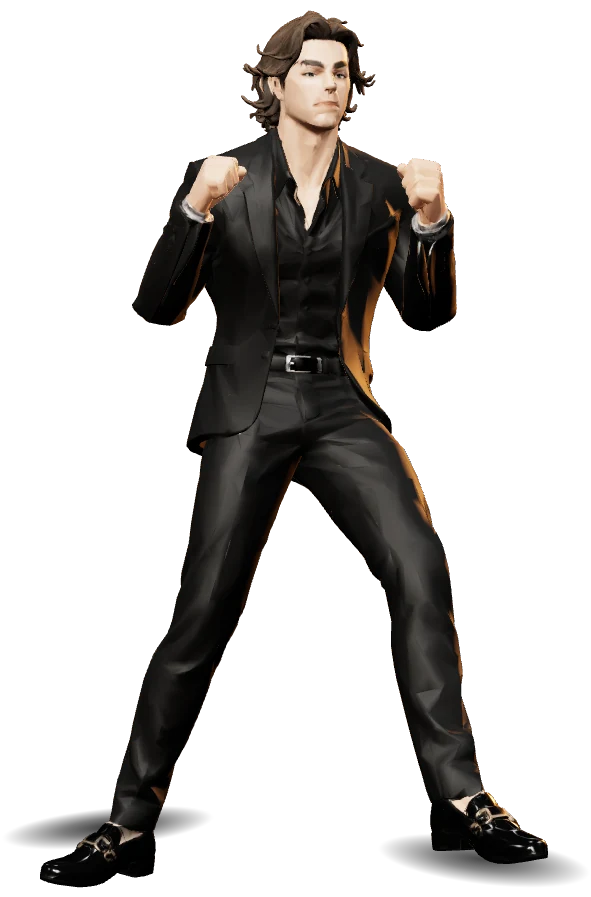
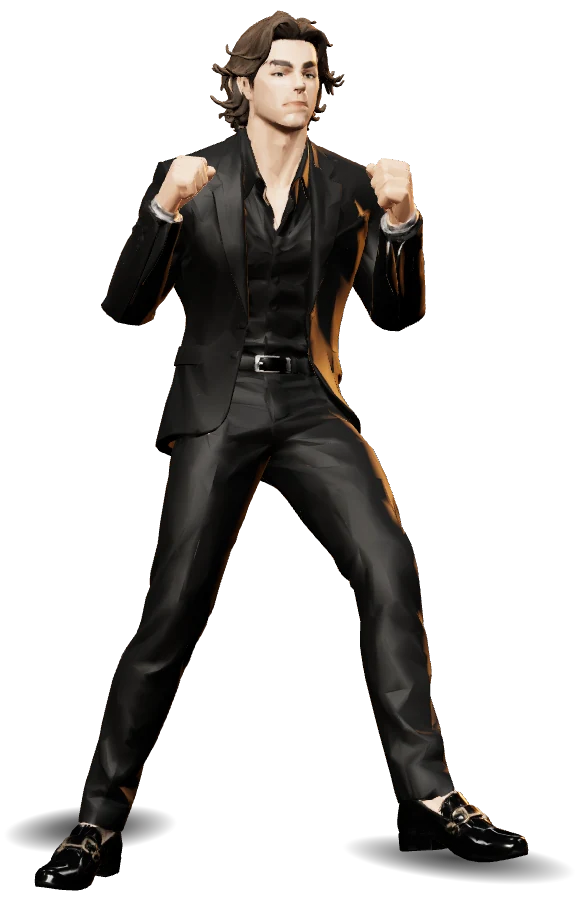
Figure Chrollo e figure normali rifatte con i piedi da guardia
Claude-Session: https://claude.ai/code/session_01Ca6fdwAAkC6S1YGdMpQrpP

Changed region(s): [[0.0296, 0.0, 0.9461, 0.9989]]

diff --git a/picchiaduro-sito/sw.js b/picchiaduro-sito/sw.js
@@ -1,7 +1,7 @@
 // Service worker (generato da build3d.py): rende il gioco giocabile anche senza internet.
 // All'installazione salva i file principali; il resto (modelli dei lottatori e oggetti delle mosse finali) lo salva in sottofondo quando la pagina lo chiede.
 // Ogni nuova versione del gioco ha un'impronta diversa: la cache vecchia viene cancellata. Solo la partita online ha bisogno di internet.
-const VER='cafuddra-8ae939a337',CORE=["./", "index.html", "manifest.webmanifest", "arene/agip.jpg", "arene/gemmellaro.jpg", "arene/monumento.jpg", "arene/palacannizzaro.jpg", "arene/piazza.jpg", "arene/retro.jpg", "arene/rotonda.jpg", "arene/stesicoro.jpg", "font/knewave-LICENSE.txt", "font/knewave.woff2", "font/metal-mania.woff2", "font/titoli.json", "img/accoppalo.webp", "img/cafuddra.webp", "img/icona192.png", "img/icona512.png", "js/accoppalo.js", "js/animazione.js", "js/audio.js", "js/gioco.js", "js/lottatori.js", "js/mani.js", "js/menu.js", "js/offline.js", "js/peerjs.min.js", "js/regia.js", "js/selezione.js", "js/three-gltf.js", "js/titoli.js", "js/tocco.js", "lottatori/lottatori.json", "lottatori/alchimista/figura.webp", "lottatori/alchimista/ritratto.jpg", "lottatori/casual/figura.webp", "lottatori/casual/ritratto.jpg", "lottatori/chef/figura.webp", "lottatori/chef/ritratto.jpg", "lottatori/damiano/figura.webp", "lottatori/damiano/ritratto.jpg", "lottatori/disco/figura.webp", "lottatori/disco/ritratto.jpg", "lottatori/ember/figura.webp", "lottatori/ember/ritratto.jpg", "lottatori/giacca-meshy/figura.webp", "lottatori/giacca-meshy/ritratto.jpg", "lottatori/guardia/figura.webp", "lottatori/guardia/ritratto.jpg", "lottatori/lillo/figura.webp", "lottatori/lillo/ritratto.jpg", "lottatori/mario/figura.webp", "lottatori/mario/ritratto.jpg", "lottatori/massimo/figura.webp", "lottatori/massimo/ritratto.jpg", "lottatori/mastro/figura.webp", "lottatori/mastro/ritratto.jpg", "lottatori/mattia/figura.webp", "lottatori/mattia/ritratto.jpg", "lottatori/mattityahu/figura.webp", "lottatori/mattityahu/ritratto.jpg", "lottatori/medico/figura.webp", "lottatori/medico/ritratto.jpg", "lottatori/peppone/figura.webp", "lottatori/peppone/ritratto.jpg", "lottatori/perna/figura.webp", "lottatori/perna/ritratto.jpg", "lottatori/simba/figura.webp", "lottatori/simba/ritratto.jpg", "lottatori/simone/figura.webp", "lottatori/simone/ritratto.jpg", "lottatori/street/figura.webp", "lottatori/street/ritratto.jpg", "lottatori/tano/figura.webp", "lottatori/tano/ritratto.jpg", "mocap/clip.json", "suoni/ahi1.mp3", "suoni/ahi2.mp3", "suoni/ahi3.mp3", "suoni/ahi4.mp3", "suoni/ahi5.mp3", "suoni/aria1.mp3", "suoni/aria2.mp3", "suoni/aria3.mp3", "suoni/aria4.mp3", "suoni/ariona1.mp3", "suoni/ariona2.mp3", "suoni/boato.mp3", "suoni/botto.mp3", "suoni/calcio1.mp3", "suoni/calcio2.mp3", "suoni/calcio3.mp3", "suoni/campana.mp3", "suoni/cannone.mp3", "suoni/colpone.mp3", "suoni/colpone2.mp3", "suoni/coro.mp3", "suoni/crepitio.mp3", "suoni/esplo1.mp3", "suoni/esplo2.mp3", "suoni/fiammata.mp3", "suoni/forte1.mp3", "suoni/forte2.mp3", "suoni/forte3.mp3", "suoni/fuoco.mp3", "suoni/incudine.mp3", "suoni/lama.mp3", "suoni/lama2.mp3", "suoni/lamiera.mp3", "suoni/lattina.mp3", "suoni/max1.mp3", "suoni/metallo1.mp3", "suoni/metallo2.mp3", "suoni/morte1.mp3", "suoni/morte2.mp3", "suoni/ossa1.mp3", "suoni/ossa2.mp3", "suoni/parata1.mp3", "suoni/parata2.mp3", "suoni/passo1.mp3", "suoni/passo2.mp3", "suoni/portiera.mp3", "suoni/pugno1.mp3", "suoni/pugno2.mp3", "suoni/pugno3.mp3", "suoni/pugno4.mp3", "suoni/raschio.mp3", "suoni/risata.mp3", "suoni/rullante.mp3", "suoni/rutto.mp3", "suoni/sangue1.mp3", "suoni/sangue2.mp3", "suoni/scarica1.mp3", "suoni/scarica2.mp3", "suoni/schianto.mp3", "suoni/sforzo1.mp3", "suoni/sforzo2.mp3", "suoni/sorso.mp3", "suoni/sparo1.mp3", "suoni/sparo2.mp3", "suoni/stoffa1.mp3", "suoni/stoffa2.mp3", "suoni/telefono.mp3", "suoni/tonfo.mp3", "suoni/tuono.mp3", "suoni/ui_apri.mp3", "suoni/ui_muovi.mp3", "suoni/ui_no.mp3", "suoni/ui_ok.mp3", "suoni/urlo1.mp3", "suoni/urlo2.mp3", "suoni/urlolungo.mp3", "suoni/vetro1.mp3", "suoni/vetro2.mp3", "suoni/zap.mp3"],EXTRA=["lottatori/alchimista/modello.glb", "lottatori/casual/modello.glb", "lottatori/chef/modello.glb", "lottatori/damiano/modello.glb", "lottatori/disco/modello.glb", "lottatori/ember/modello.glb", "lottatori/giacca-meshy/costume-chrollo.glb", "lottatori/giacca-meshy/modello.glb", "lottatori/guardia/modello.glb", "lottatori/lillo/modello.glb", "lottatori/mario/modello.glb", "lottatori/massimo/modello.glb", "lottatori/mastro/modello.glb", "lottatori/mattia/modello.glb", "lottatori/mattityahu/modello.glb", "lottatori/medico/modello.glb", "lottatori/peppone/modello.glb", "lottatori/perna/modello.glb", "lottatori/simba/modello.glb", "lottatori/simone/modello.glb", "lottatori/street/modello.glb", "lottatori/tano/costume-chrollo.glb", "lottatori/tano/modello.glb", "oggetti/birra.js", "oggetti/bottiglia.js", "oggetti/camper.js", "oggetti/cuore.js", "oggetti/intestino.js", "oggetti/microfono.js", "oggetti/muscoli.js", "oggetti/palla.js", "oggetti/scheletro.js", "oggetti/siringa.js", "oggetti/spina.js", "oggetti/statua.js", "oggetti/telefono.js", "oggetti/volante.js", "oggetti/waifu.js"];
+const VER='cafuddra-3d568374ac',CORE=["./", "index.html", "manifest.webmanifest", "arene/agip.jpg", "arene/gemmellaro.jpg", "arene/monumento.jpg", "arene/palacannizzaro.jpg", "arene/piazza.jpg", "arene/retro.jpg", "arene/rotonda.jpg", "arene/stesicoro.jpg", "font/knewave-LICENSE.txt", "font/knewave.woff2", "font/metal-mania.woff2", "font/titoli.json", "img/accoppalo.webp", "img/cafuddra.webp", "img/icona192.png", "img/icona512.png", "js/accoppalo.js", "js/animazione.js", "js/audio.js", "js/gioco.js", "js/lottatori.js", "js/mani.js", "js/menu.js", "js/offline.js", "js/peerjs.min.js", "js/regia.js", "js/selezione.js", "js/three-gltf.js", "js/titoli.js", "js/tocco.js", "lottatori/lottatori.json", "lottatori/alchimista/figura.webp", "lottatori/alchimista/ritratto.jpg", "lottatori/casual/figura.webp", "lottatori/casual/ritratto.jpg", "lottatori/chef/figura.webp", "lottatori/chef/ritratto.jpg", "lottatori/damiano/figura.webp", "lottatori/damiano/ritratto.jpg", "lottatori/disco/figura.webp", "lottatori/disco/ritratto.jpg", "lottatori/ember/figura.webp", "lottatori/ember/ritratto.jpg", "lottatori/giacca-meshy/figura-chrollo.webp", "lottatori/giacca-meshy/figura.webp", "lottatori/giacca-meshy/ritratto.jpg", "lottatori/guardia/figura.webp", "lottatori/guardia/ritratto.jpg", "lottatori/lillo/figura.webp", "lottatori/lillo/ritratto.jpg", "lottatori/mario/figura.webp", "lottatori/mario/ritratto.jpg", "lottatori/massimo/figura.webp", "lottatori/massimo/ritratto.jpg", "lottatori/mastro/figura.webp", "lottatori/mastro/ritratto.jpg", "lottatori/mattia/figura.webp", "lottatori/mattia/ritratto.jpg", "lottatori/mattityahu/figura.webp", "lottatori/mattityahu/ritratto.jpg", "lottatori/medico/figura.webp", "lottatori/medico/ritratto.jpg", "lottatori/peppone/figura.webp", "lottatori/peppone/ritratto.jpg", "lottatori/perna/figura.webp", "lottatori/perna/ritratto.jpg", "lottatori/simba/figura.webp", "lottatori/simba/ritratto.jpg", "lottatori/simone/figura.webp", "lottatori/simone/ritratto.jpg", "lottatori/street/figura.webp", "lottatori/street/ritratto.jpg", "lottatori/tano/figura-chrollo.webp", "lottatori/tano/figura.webp", "lottatori/tano/ritratto.jpg", "mocap/clip.json", "suoni/ahi1.mp3", "suoni/ahi2.mp3", "suoni/ahi3.mp3", "suoni/ahi4.mp3", "suoni/ahi5.mp3", "suoni/aria1.mp3", "suoni/aria2.mp3", "suoni/aria3.mp3", "suoni/aria4.mp3", "suoni/ariona1.mp3", "suoni/ariona2.mp3", "suoni/boato.mp3", "suoni/botto.mp3", "suoni/calcio1.mp3", "suoni/calcio2.mp3", "suoni/calcio3.mp3", "suoni/campana.mp3", "suoni/cannone.mp3", "suoni/colpone.mp3", "suoni/colpone2.mp3", "suoni/coro.mp3", "suoni/crepitio.mp3", "suoni/esplo1.mp3", "suoni/esplo2.mp3", "suoni/fiammata.mp3", "suoni/forte1.mp3", "suoni/forte2.mp3", "suoni/forte3.mp3", "suoni/fuoco.mp3", "suoni/incudine.mp3", "suoni/lama.mp3", "suoni/lama2.mp3", "suoni/lamiera.mp3", "suoni/lattina.mp3", "suoni/max1.mp3", "suoni/metallo1.mp3", "suoni/metallo2.mp3", "suoni/morte1.mp3", "suoni/morte2.mp3", "suoni/ossa1.mp3", "suoni/ossa2.mp3", "suoni/parata1.mp3", "suoni/parata2.mp3", "suoni/passo1.mp3", "suoni/passo2.mp3", "suoni/portiera.mp3", "suoni/pugno1.mp3", "suoni/pugno2.mp3", "suoni/pugno3.mp3", "suoni/pugno4.mp3", "suoni/raschio.mp3", "suoni/risata.mp3", "suoni/rullante.mp3", "suoni/rutto.mp3", "suoni/sangue1.mp3", "suoni/sangue2.mp3", "suoni/scarica1.mp3", "suoni/scarica2.mp3", "suoni/schianto.mp3", "suoni/sforzo1.mp3", "suoni/sforzo2.mp3", "suoni/sorso.mp3", "suoni/sparo1.mp3", "suoni/sparo2.mp3", "suoni/stoffa1.mp3", "suoni/stoffa2.mp3", "suoni/telefono.mp3", "suoni/tonfo.mp3", "suoni/tuono.mp3", "suoni/ui_apri.mp3", "suoni/ui_muovi.mp3", "suoni/ui_no.mp3", "suoni/ui_ok.mp3", "suoni/urlo1.mp3", "suoni/urlo2.mp3", "suoni/urlolungo.mp3", "suoni/vetro1.mp3", "suoni/vetro2.mp3", "suoni/zap.mp3"],EXTRA=["lottatori/alchimista/modello.glb", "lottatori/casual/modello.glb", "lottatori/chef/modello.glb", "lottatori/damiano/modello.glb", "lottatori/disco/modello.glb", "lottatori/ember/modello.glb", "lottatori/giacca-meshy/costume-chrollo.glb", "lottatori/giacca-meshy/modello.glb", "lottatori/guardia/modello.glb", "lottatori/lillo/modello.glb", "lottatori/mario/modello.glb", "lottatori/massimo/modello.glb", "lottatori/mastro/modello.glb", "lottatori/mattia/modello.glb", "lottatori/mattityahu/modello.glb", "lottatori/medico/modello.glb", "lottatori/peppone/modello.glb", "lottatori/perna/modello.glb", "lottatori/simba/modello.glb", "lottatori/simone/modello.glb", "lottatori/street/modello.glb", "lottatori/tano/costume-chrollo.glb", "lottatori/tano/modello.glb", "oggetti/birra.js", "oggetti/bottiglia.js", "oggetti/camper.js", "oggetti/cuore.js", "oggetti/intestino.js", "oggetti/microfono.js", "oggetti/muscoli.js", "oggetti/palla.js", "oggetti/scheletro.js", "oggetti/siringa.js", "oggetti/spina.js", "oggetti/statua.js", "oggetti/telefono.js", "oggetti/volante.js", "oggetti/waifu.js"];
 self.addEventListener('install',e=>{e.waitUntil(caches.open(VER).then(c=>c.addAll(CORE)).then(()=>self.skipWaiting()))});
 self.addEventListener('activate',e=>{e.waitUntil(caches.keys().then(ks=>Promise.all(ks.filter(k=>k.startsWith('cafuddra-')&&k!==VER).map(k=>caches.delete(k)))).then(()=>self.clients.claim()))});
 self.addEventListener('fetch',e=>{const r=e.request;if(r.method!=='GET'||new URL(r.url).origin!==location.origin)return;
